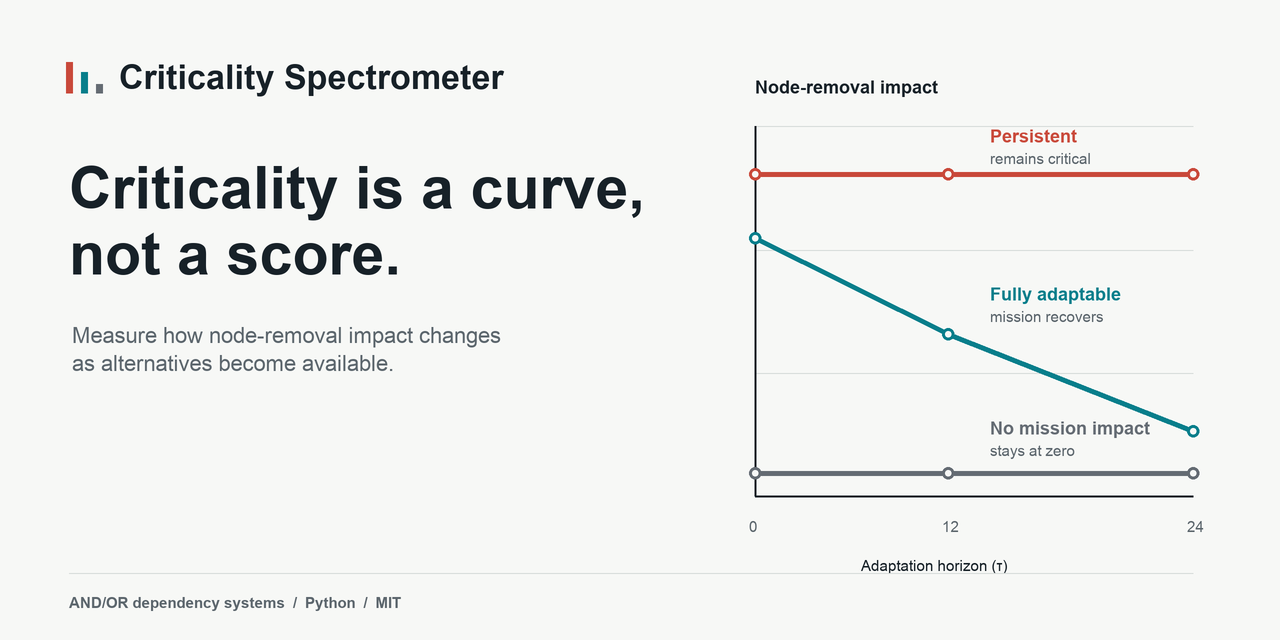
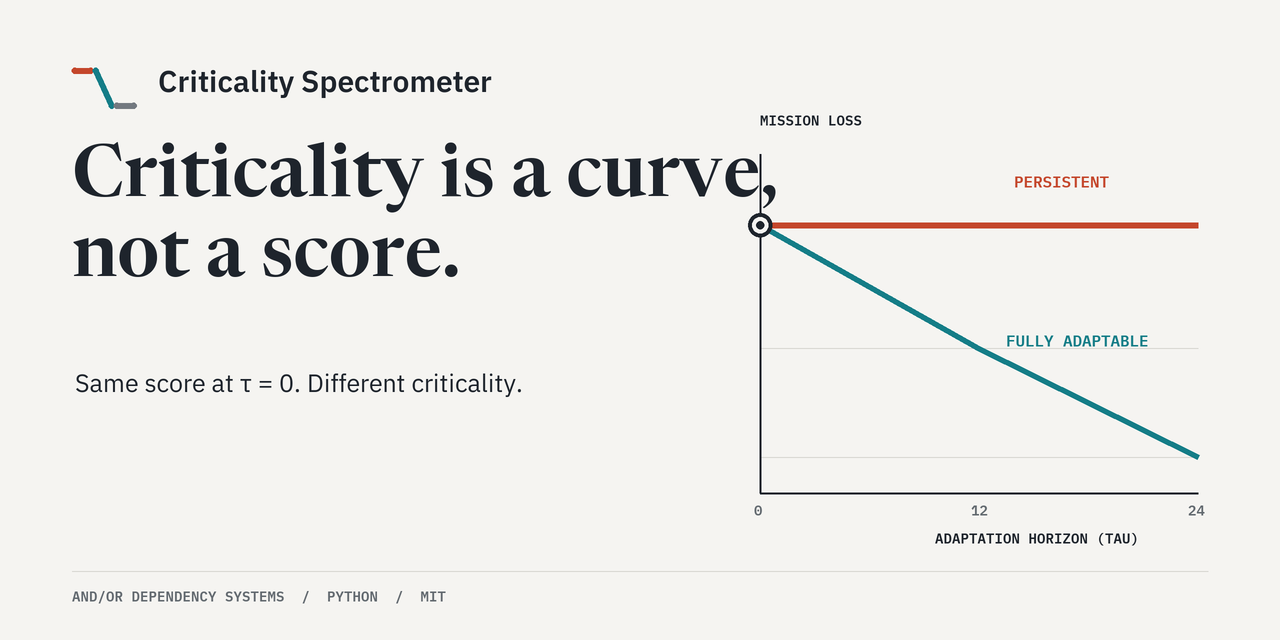
DOC: sharpen criticality visual identity

diff --git a/scripts/render_social_preview.py b/scripts/render_social_preview.py
@@ -1,141 +1,254 @@
-"""Render the repository's 1280x640 GitHub social preview.
+"""Render the repository's public visual assets.
 
-Requires Pillow. The output is deterministic for a given font installation.
+The PNG renderer requires Pillow plus Newsreader, IBM Plex Sans, and IBM Plex
+Mono in ``CRITICALITY_FONT_DIR`` (``.fonts`` by default). The SVG files remain
+the editable sources and name those fonts without embedding them.
 """
 
 from __future__ import annotations
 
+import os
 from pathlib import Path
 
 from PIL import Image, ImageDraw, ImageFont
 
 
 ROOT = Path(__file__).resolve().parents[1]
-OUTPUT = ROOT / "docs" / "social-preview.png"
+BRAND_DIR = ROOT / "docs" / "brand"
+SOCIAL_PNG = ROOT / "docs" / "social-preview.png"
+SOCIAL_SVG = BRAND_DIR / "social-preview.svg"
+MARK_PNG = BRAND_DIR / "mark-512.png"
+MARK_SVG = BRAND_DIR / "mark.svg"
 
 WIDTH = 1280
 HEIGHT = 640
 SCALE = 2
 
-BACKGROUND = "#F7F8F6"
-TEXT = "#172128"
-MUTED = "#5C666D"
-GRID = "#D7DCDA"
-PERSISTENT = "#C9493A"
-ADAPTABLE = "#087E8B"
-NONE = "#646B73"
+PAPER = "#F5F4F1"
+INK = "#1E242C"
+MUTED = "#636A70"
+GRID = "#D8D7D2"
+VERMILLION = "#C4462B"
+TEAL = "#147D87"
+GRAY = "#737980"
 
-FONT_REGULAR = Path("/System/Library/Fonts/Supplemental/Arial.ttf")
-FONT_BOLD = Path("/System/Library/Fonts/Supplemental/Arial Bold.ttf")
+FONT_DIR = Path(os.environ.get("CRITICALITY_FONT_DIR", ROOT / ".fonts"))
+NEWSREADER = FONT_DIR / "Newsreader.ttf"
+PLEX_SANS = FONT_DIR / "IBMPlexSans.ttf"
+PLEX_MONO = FONT_DIR / "IBMPlexMono-SemiBold.ttf"
 
 
 def scaled(value: int | float) -> int:
     return round(value * SCALE)
 
 
-def font(path: Path, size: int) -> ImageFont.FreeTypeFont:
-    return ImageFont.truetype(str(path), scaled(size))
-
-
 def point(x: int | float, y: int | float) -> tuple[int, int]:
     return scaled(x), scaled(y)
 
 
-def line(
+def variable_font(
+    path: Path,
+    size: int,
+    axes: list[int],
+) -> ImageFont.FreeTypeFont:
+    if not path.exists():
+        raise FileNotFoundError(
+            f"Missing {path.name}. Set CRITICALITY_FONT_DIR to a directory "
+            "containing Newsreader.ttf, IBMPlexSans.ttf, and "
+            "IBMPlexMono-SemiBold.ttf."
+        )
+    loaded = ImageFont.truetype(str(path), scaled(size))
+    loaded.set_variation_by_axes(axes)
+    return loaded
+
+
+def static_font(path: Path, size: int) -> ImageFont.FreeTypeFont:
+    if not path.exists():
+        raise FileNotFoundError(
+            f"Missing {path.name}. Set CRITICALITY_FONT_DIR to the font directory."
+        )
+    return ImageFont.truetype(str(path), scaled(size))
+
+
+def draw_line(
     draw: ImageDraw.ImageDraw,
     coordinates: list[tuple[int | float, int | float]],
     *,
     fill: str,
     width: int,
 ) -> None:
-    draw.line([point(x, y) for x, y in coordinates], fill=fill, width=scaled(width), joint="curve")
-
-
-def circle(
-    draw: ImageDraw.ImageDraw,
-    x: int,
-    y: int,
-    *,
-    radius: int,
-    outline: str,
-) -> None:
-    draw.ellipse(
-        (scaled(x - radius), scaled(y - radius), scaled(x + radius), scaled(y + radius)),
-        fill=BACKGROUND,
-        outline=outline,
-        width=scaled(3),
+    draw.line(
+        [point(x, y) for x, y in coordinates],
+        fill=fill,
+        width=scaled(width),
+        joint="curve",
     )
 
 
-def render() -> Image.Image:
-    image = Image.new("RGB", (scaled(WIDTH), scaled(HEIGHT)), BACKGROUND)
+def draw_mark(draw: ImageDraw.ImageDraw, x: int, y: int, size: int) -> None:
+    stroke = max(round(size * 0.09), 3)
+    segments = (
+        (
+            (x + size * 0.08, y + size * 0.25),
+            (x + size * 0.31, y + size * 0.25),
+            VERMILLION,
+        ),
+        (
+            (x + size * 0.38, y + size * 0.25),
+            (x + size * 0.61, y + size * 0.75),
+            TEAL,
+        ),
+        (
+            (x + size * 0.68, y + size * 0.75),
+            (x + size * 0.92, y + size * 0.75),
+            GRAY,
+        ),
+    )
+    radius = stroke / 2
+    for start, end, color in segments:
+        draw_line(draw, [start, end], fill=color, width=stroke)
+        for cap_x, cap_y in (start, end):
+            draw.ellipse(
+                (
+                    scaled(cap_x - radius),
+                    scaled(cap_y - radius),
+                    scaled(cap_x + radius),
+                    scaled(cap_y + radius),
+                ),
+                fill=color,
+            )
+
+
+def social_svg() -> str:
+    return f"""<svg xmlns="http://www.w3.org/2000/svg" width="1280" height="640" viewBox="0 0 1280 640" role="img" aria-labelledby="title description">
+  <title id="title">Criticality is a curve, not a score</title>
+  <desc id="description">Two nodes share the same initial score. One remains critical while the other becomes fully adaptable as alternatives activate.</desc>
+  <rect width="1280" height="640" fill="{PAPER}"/>
+  <g fill="none" stroke-linecap="round" stroke-width="7">
+    <path d="M72 76 H88" stroke="{VERMILLION}"/>
+    <path d="M96 76 L112 106" stroke="{TEAL}"/>
+    <path d="M120 106 H137" stroke="{GRAY}"/>
+  </g>
+  <text x="158" y="95" fill="{INK}" font-family="IBM Plex Sans, sans-serif" font-size="30" font-weight="600">Criticality Spectrometer</text>
+  <text x="72" y="214" fill="{INK}" font-family="Newsreader, serif" font-size="72" font-weight="600">Criticality is a curve,</text>
+  <text x="72" y="294" fill="{INK}" font-family="Newsreader, serif" font-size="72" font-weight="600">not a score.</text>
+  <text x="75" y="390" fill="{INK}" font-family="IBM Plex Sans, sans-serif" font-size="25">Same score at &#964; = 0. Different criticality.</text>
+  <g fill="none" stroke-linecap="round" stroke-linejoin="round">
+    <path d="M760 225 H1198" stroke="{VERMILLION}" stroke-width="6"/>
+    <path d="M760 225 L978 348 L1198 457" stroke="{TEAL}" stroke-width="6"/>
+    <path d="M760 154 V493 H1198" stroke="{INK}" stroke-width="2"/>
+    <path d="M760 225 H1198 M760 348 H1198 M760 457 H1198" stroke="{GRID}" stroke-width="1"/>
+  </g>
+  <circle cx="760" cy="225" r="12" fill="{PAPER}" stroke="{INK}" stroke-width="4"/>
+  <circle cx="760" cy="225" r="4" fill="{INK}"/>
+  <g fill="{INK}" font-family="IBM Plex Mono, monospace" font-size="14" font-weight="600" letter-spacing="1">
+    <text x="760" y="132">MISSION LOSS</text>
+    <text x="935" y="548">ADAPTATION HORIZON (TAU)</text>
+  </g>
+  <text x="1014" y="195" fill="{VERMILLION}" font-family="IBM Plex Mono, monospace" font-size="16" font-weight="600">PERSISTENT</text>
+  <text x="1006" y="354" fill="{TEAL}" font-family="IBM Plex Mono, monospace" font-size="16" font-weight="600">FULLY ADAPTABLE</text>
+  <g fill="{MUTED}" font-family="IBM Plex Mono, monospace" font-size="14">
+    <text x="754" y="520">0</text><text x="971" y="520">12</text><text x="1188" y="520">24</text>
+  </g>
+  <path d="M72 571 H1208" stroke="{GRID}"/>
+  <text x="72" y="605" fill="{MUTED}" font-family="IBM Plex Mono, monospace" font-size="14" font-weight="600" letter-spacing="1">AND/OR DEPENDENCY SYSTEMS  /  PYTHON  /  MIT</text>
+</svg>
+"""
+
+
+def mark_svg() -> str:
+    return f"""<svg xmlns="http://www.w3.org/2000/svg" width="512" height="512" viewBox="0 0 512 512" role="img" aria-labelledby="title description">
+  <title id="title">Criticality Spectrometer mark</title>
+  <desc id="description">Three strokes show persistent, adaptable, and no-impact criticality curves.</desc>
+  <g fill="none" stroke-linecap="round" stroke-width="44">
+    <path d="M62 126 H182" stroke="{VERMILLION}"/>
+    <path d="M202 126 L322 386" stroke="{TEAL}"/>
+    <path d="M342 386 H462" stroke="{GRAY}"/>
+  </g>
+</svg>
+"""
+
+
+def render_social_png() -> Image.Image:
+    image = Image.new("RGB", (scaled(WIDTH), scaled(HEIGHT)), PAPER)
     draw = ImageDraw.Draw(image)
 
-    title_font = font(FONT_BOLD, 34)
-    headline_font = font(FONT_BOLD, 59)
-    body_font = font(FONT_REGULAR, 22)
-    label_font = font(FONT_BOLD, 18)
-    small_font = font(FONT_REGULAR, 15)
-    footer_font = font(FONT_BOLD, 15)
+    display = variable_font(NEWSREADER, 72, [600, 72])
+    brand = variable_font(PLEX_SANS, 30, [600, 100])
+    support = variable_font(PLEX_SANS, 25, [400, 100])
+    mono = static_font(PLEX_MONO, 14)
+    mono_label = static_font(PLEX_MONO, 16)
 
-    # A compact spectral mark: three measured outcomes at the same horizon.
-    line(draw, [(69, 62), (69, 93)], fill=PERSISTENT, width=7)
-    line(draw, [(84, 72), (84, 93)], fill=ADAPTABLE, width=7)
-    line(draw, [(99, 84), (99, 93)], fill=NONE, width=7)
-    draw.text(point(119, 58), "Criticality Spectrometer", fill=TEXT, font=title_font)
-
-    draw.text(point(69, 155), "Criticality is a curve,", fill=TEXT, font=headline_font)
-    draw.text(point(69, 221), "not a score.", fill=TEXT, font=headline_font)
-
+    draw_mark(draw, 69, 53, 70)
+    draw.text(point(158, 61), "Criticality Spectrometer", fill=INK, font=brand)
+    draw.text(point(72, 143), "Criticality is a curve,", fill=INK, font=display)
+    draw.text(point(72, 223), "not a score.", fill=INK, font=display)
     draw.text(
-        point(72, 323),
-        "Measure how node-removal impact changes\nas alternatives become available.",
-        fill=MUTED,
-        font=body_font,
-        spacing=scaled(8),
+        point(75, 366),
+        "Same score at \u03c4 = 0. Different criticality.",
+        fill=INK,
+        font=support,
     )
 
-    # Method chart.
-    chart_left = 755
-    chart_right = 1193
-    chart_top = 126
-    chart_bottom = 496
-    x_values = (chart_left, 948, chart_right)
+    chart_left = 760
+    chart_right = 1198
+    chart_top = 154
+    chart_bottom = 493
+    shared_y = 225
 
-    draw.text(point(chart_left, 77), "Node-removal impact", fill=TEXT, font=label_font)
-    for y in (chart_top, 250, 373, chart_bottom):
-        line(draw, [(chart_left, y), (chart_right, y)], fill=GRID, width=1)
-    line(draw, [(chart_left, chart_top), (chart_left, chart_bottom)], fill=TEXT, width=2)
-    line(draw, [(chart_left, chart_bottom), (chart_right, chart_bottom)], fill=TEXT, width=2)
+    for y in (shared_y, 348, 457):
+        draw_line(draw, [(chart_left, y), (chart_right, y)], fill=GRID, width=1)
+    draw_line(draw, [(chart_left, chart_top), (chart_left, chart_bottom)], fill=INK, width=2)
+    draw_line(draw, [(chart_left, chart_bottom), (chart_right, chart_bottom)], fill=INK, width=2)
 
-    series = (
-        (PERSISTENT, ((755, 174), (948, 174), (1193, 174)), "Persistent", "remains critical", 126),
-        (ADAPTABLE, ((755, 238), (948, 334), (1193, 431)), "Fully adaptable", "mission recovers", 284),
-        (NONE, ((755, 473), (948, 473), (1193, 473)), "No mission impact", "stays at zero", 418),
+    draw_line(draw, [(760, shared_y), (1198, shared_y)], fill=VERMILLION, width=6)
+    draw_line(draw, [(760, shared_y), (978, 348), (1198, 457)], fill=TEAL, width=6)
+
+    draw.ellipse(
+        (scaled(748), scaled(shared_y - 12), scaled(772), scaled(shared_y + 12)),
+        fill=PAPER,
+        outline=INK,
+        width=scaled(4),
+    )
+    draw.ellipse(
+        (scaled(756), scaled(shared_y - 4), scaled(764), scaled(shared_y + 4)),
+        fill=INK,
     )
 
-    for color, coordinates, label, description, label_y in series:
-        line(draw, list(coordinates), fill=color, width=5)
-        for x, y in coordinates:
-            circle(draw, x, y, radius=6, outline=color)
-        draw.text(point(990, label_y), label, fill=color, font=label_font)
-        draw.text(point(990, label_y + 24), description, fill=MUTED, font=small_font)
+    draw.text(point(760, 111), "MISSION LOSS", fill=INK, font=mono)
+    draw.text(point(1014, 171), "PERSISTENT", fill=VERMILLION, font=mono_label)
+    draw.text(point(1006, 330), "FULLY ADAPTABLE", fill=TEAL, font=mono_label)
+    for x, horizon in ((754, "0"), (971, "12"), (1188, "24")):
+        draw.text(point(x, 501), horizon, fill=MUTED, font=mono)
+    draw.text(point(935, 529), "ADAPTATION HORIZON (TAU)", fill=INK, font=mono)
 
-    for x, horizon in zip(x_values, ("0", "12", "24"), strict=True):
-        draw.text(point(x - 6, 518), horizon, fill=MUTED, font=small_font)
-    draw.text(point(861, 557), "Adaptation horizon (\u03c4)", fill=TEXT, font=small_font)
-
-    line(draw, [(69, 573), (1193, 573)], fill=GRID, width=1)
+    draw_line(draw, [(72, 571), (1208, 571)], fill=GRID, width=1)
     draw.text(
-        point(69, 594),
-        "AND/OR dependency systems  /  Python  /  MIT",
+        point(72, 587),
+        "AND/OR DEPENDENCY SYSTEMS  /  PYTHON  /  MIT",
         fill=MUTED,
-        font=footer_font,
+        font=mono,
     )
 
     return image.resize((WIDTH, HEIGHT), Image.Resampling.LANCZOS)
 
 
+def render_mark_png() -> Image.Image:
+    image = Image.new("RGBA", (scaled(512), scaled(512)), (0, 0, 0, 0))
+    draw = ImageDraw.Draw(image)
+    draw_mark(draw, 38, 42, 436)
+    return image.resize((512, 512), Image.Resampling.LANCZOS)
+
+
+def write_assets() -> None:
+    BRAND_DIR.mkdir(parents=True, exist_ok=True)
+    SOCIAL_SVG.write_text(social_svg())
+    MARK_SVG.write_text(mark_svg())
+    render_social_png().save(SOCIAL_PNG, format="PNG", optimize=True)
+    render_mark_png().save(MARK_PNG, format="PNG", optimize=True)
+    for path in (SOCIAL_PNG, SOCIAL_SVG, MARK_PNG, MARK_SVG):
+        print(path.relative_to(ROOT))
+
+
 if __name__ == "__main__":
-    render().save(OUTPUT, format="PNG", optimize=True)
-    print(OUTPUT.relative_to(ROOT))
+    write_assets()
